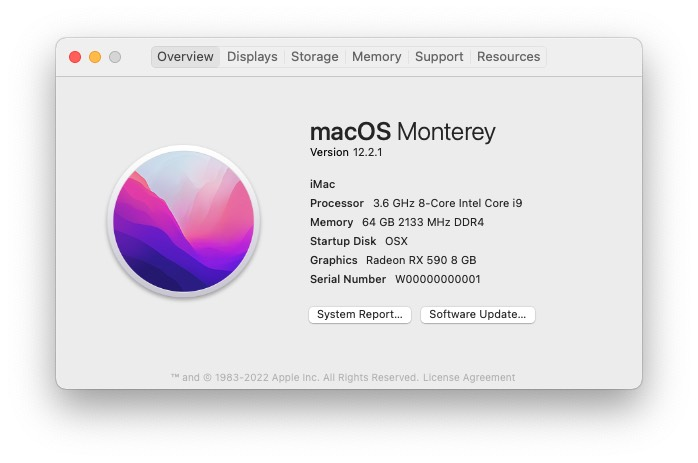
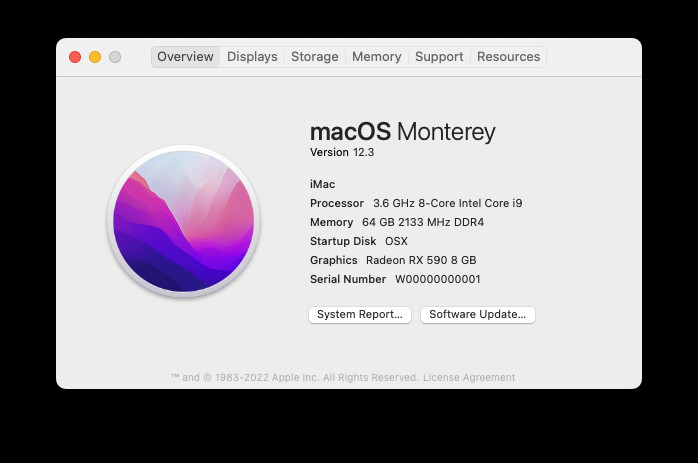
12.3

diff --git a/README.md b/README.md
@@ -1,8 +1,14 @@
 # Opencore-Gigabyte-Z390-Gaming-X-9900K-RX590-Hackintosh
 
-OSX 12.2.1
+OSX 12.3
 
 ![image](https://raw.githubusercontent.com/nihuo/Opencore-Gigabyte-Z390-Gaming-X-9900K-RX590-Hackintosh/main/IMG/about.jpg)
+
+更新FeatureUnlock.kext， WhateverGreen.kext
+
+----------------------------------------------------------------
+
+OSX 12.2.1
 
 初始的EFI来自[黑果小兵](https://blog.daliansky.net/), 改动一个地方。
 1. 为解决睡眠后自动唤醒问题，将蓝牙对应的USB口用Hackintool改为internal. 
